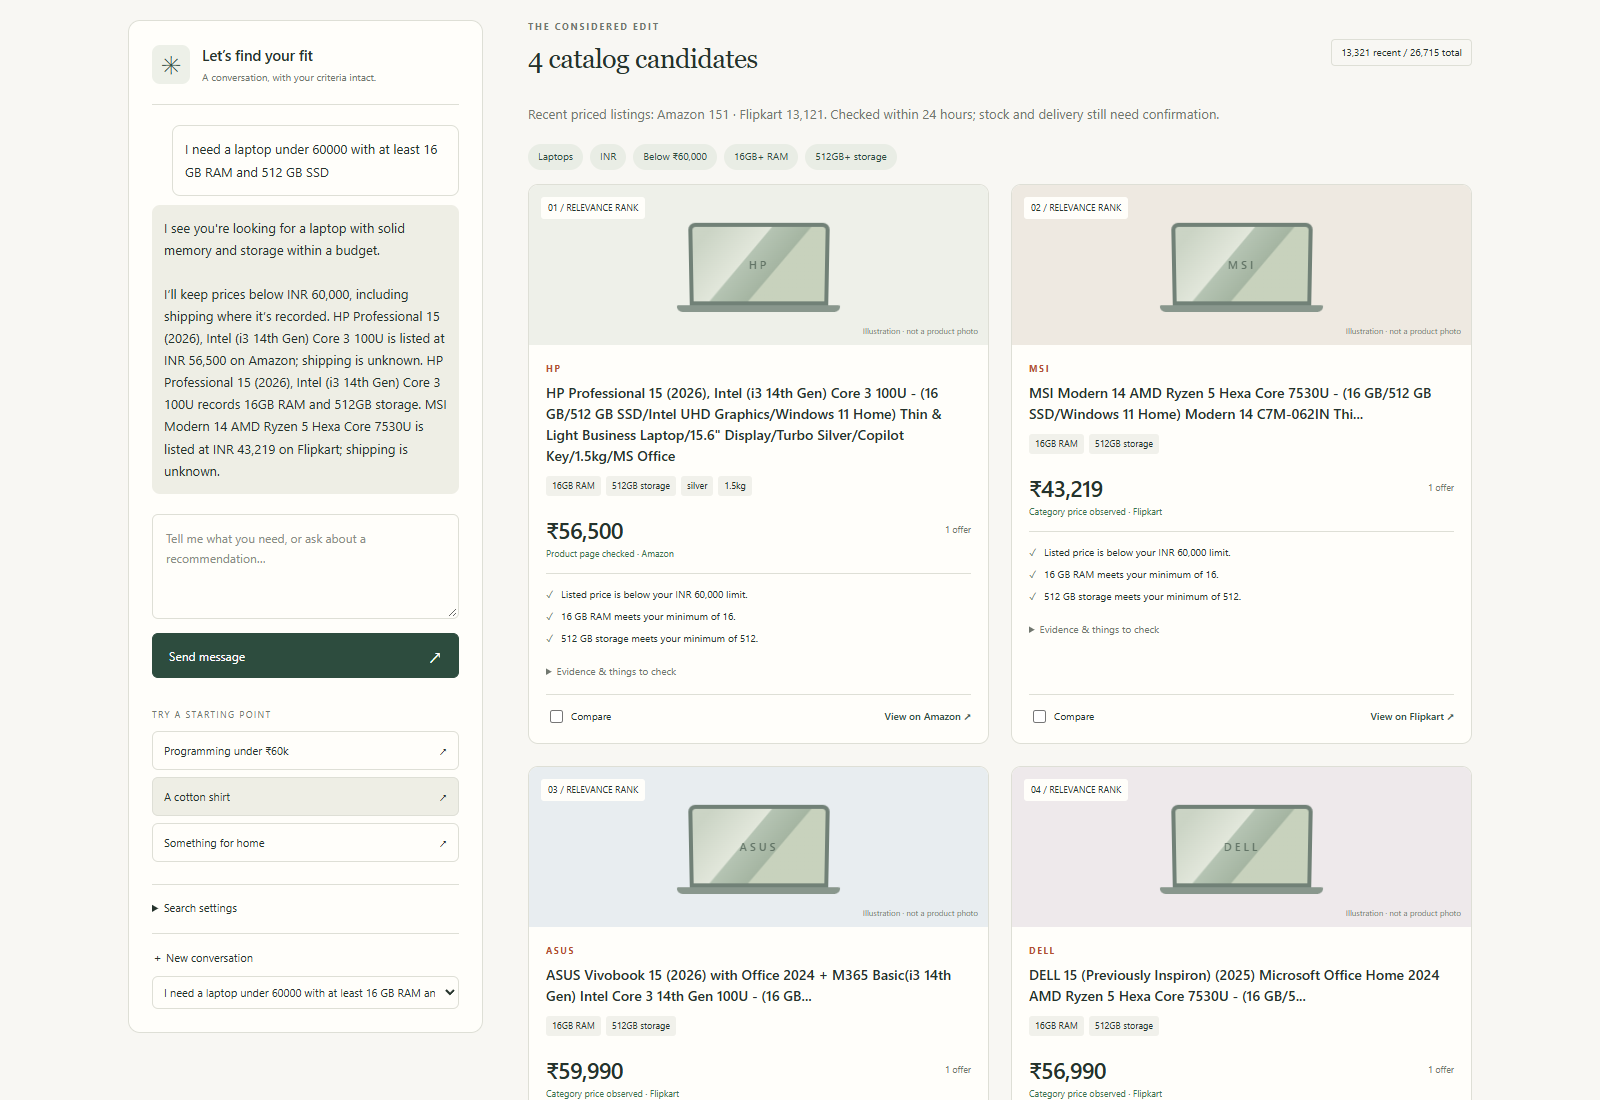
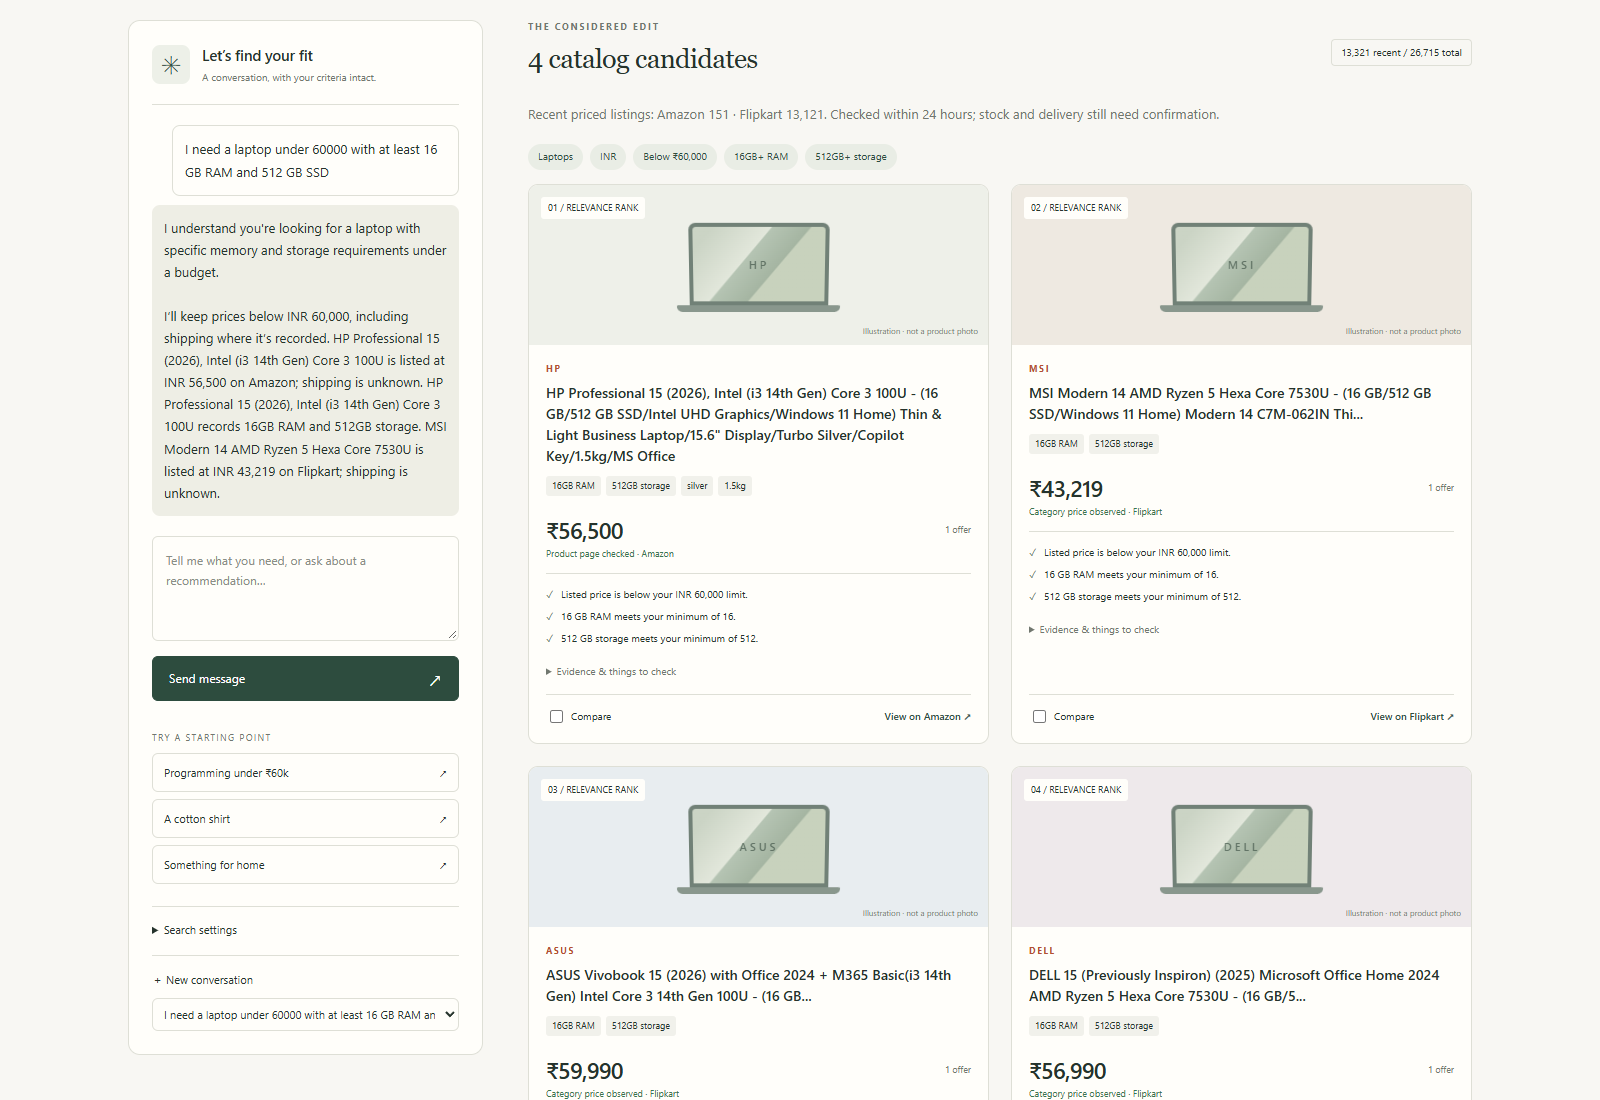
Show search-to-retailer examples and update project branding

Changed region(s): [[0.0938, 0.1855, 0.3125, 0.9273], [0.25, 0.7418, 0.2812, 0.7727], [0.25, 0.68, 0.2812, 0.7109]]

diff --git a/docs/SHOWCASE.md b/docs/SHOWCASE.md
@@ -1,6 +1,6 @@
 # Search examples and screenshots
 
-These are actual browser captures from the populated development app on **31 October 2026**, using local Qwen and hybrid retrieval. Product cards and replies were not mocked or rewritten for the images. Screenshots show the visible portion of each result list; open an image to inspect the text at full resolution.
+These are actual browser captures from the populated development app on **31 October 2026**, using local Qwen and hybrid retrieval. Each example pairs the search results with the retailer page opened by clicking **View on Amazon/Flipkart** on the first result. Product cards, replies and retailer pages were not mocked or rewritten for the images. Open an image to inspect the text at full resolution.
 
 The capture checks verify both the saved requirements and returned product fields. This demonstrates the recorded behavior of these examples, not universal language understanding or independently tested product quality. Prices and availability can change. The interface uses clearly labeled illustrations/category placeholders rather than product photographs.
 
@@ -14,6 +14,10 @@ The search preserves `alarm clock`, `shape: round` and `display: digital`. The c
 
 ![Round digital alarm clock search with preserved shape and display requirements](screenshots/round-digital-alarm-clock.png)
 
+**Top result after clicking through:** [Zollyss round digital alarm clock on Amazon](https://www.amazon.in/dp/B0GJSWLRJ4). The retailer page displays the actual product photograph, title and ₹699 price at capture time.
+
+![Amazon product page opened from the first round digital alarm clock result](screenshots/round-digital-alarm-clock-product.png)
+
 ## 2. An OLED television
 
 **Request:** “I want a oled TV”
@@ -21,6 +25,10 @@ The search preserves `alarm clock`, `shape: round` and `display: digital`. The c
 The request becomes a television search with a recorded OLED display requirement. The captured run returned six Flipkart candidates. The extraction and matching fields agree, so OLED is checked as a specification rather than treated as an unsupported sentence. These remain retailer-recorded display claims, not independent panel verification.
 
 ![OLED television search showing the display requirement and matching catalog candidates](screenshots/oled-televisions.png)
+
+**Top result after clicking through:** [LIMEBERRY 125 cm (50 inch) television on Flipkart](https://www.flipkart.com/limeberry-125-cm-50-inch-oled-ultra-hd-4k-smart-android-tv/p/itm1a9381dece63e?pid=TVSGMWP2WVG2CBSZ). The page shows the retailer's OLED description and ₹36,386 listed price. It also shows a delivery restriction with no delivery location selected; the shortlist does not guarantee local delivery.
+
+![Flipkart product page opened from the first OLED television result](screenshots/oled-televisions-product.png)
 
 ## 3. A laptop within a budget and minimum specifications
 
@@ -30,13 +38,9 @@ The shortlist applies a strict price ceiling below ₹60,000, at least 16 GB RAM
 
 ![Laptop search with price, RAM and storage requirements and offers from both retailers](screenshots/laptop-budget-specifications.png)
 
-## 4. Men's cotton shirts
+**Top result after clicking through:** [HP Professional 15, 16 GB RAM / 512 GB SSD, on Amazon](https://www.amazon.in/dp/B0GHSN1N24). This is the same first-listed laptop shown in the search results above.
 
-**Request:** “A cotton shirt for men under 1500”
-
-This example combines a clothing subtype, material, audience and a strict price ceiling below ₹1,500. Only recorded cotton and men's-audience attributes can satisfy those requirements. A missing selected size or uncertain stock is not implied to be verified.
-
-![Men's cotton-shirt search with material, audience and budget criteria](screenshots/cotton-shirts.png)
+![Amazon product page opened from the first laptop result](screenshots/laptop-budget-specifications-product.png)
 
 ## Reproduce the captures
 
@@ -46,6 +50,6 @@ Follow [Setup](SETUP.md), populate and index a recent catalog, start the local a
 node scripts/capture_showcase.cjs
 ```
 
-The script needs Playwright and installed Chrome. An optional example ID, such as `cotton-shirts`, captures just that scenario. A future run can return different offers or fail if current inventory does not meet the requirements. It will not fabricate products to recreate these images.
+The script needs Playwright and installed Chrome. An optional example ID, such as `round-digital-alarm-clock`, captures just that scenario. It saves the search image, clicks the first result's retailer link and captures the opened product page. A future run can return different offers or fail if current inventory does not meet the requirements or a retailer page is unavailable. It will not fabricate products to recreate these images.
 
 The development catalog and saved chats are not included in this repository. The application source, collection tools and documented import format are provided so a new catalog can be built separately.

diff --git a/README.md b/README.md
@@ -1,4 +1,4 @@
-# Affiliate Shopping Platform
+# Agentic Affiliate Shopping Platform
 
 **Shortlist — a local AI shopping assistant for Amazon India and Flipkart.**
 
@@ -89,17 +89,47 @@ Measured on **31 October 2026** in the populated development workspace:
 
 These are dated observations, not a live inventory claim or a count of distinct physical products. Recent status expires after 24 hours. **The populated catalog is not bundled in the repository**; a fresh checkout starts empty and must collect or import documented observations. The screenshots show the populated development instance.
 
-## Why the repository is not named “Agentic”
+## Example searches and product pages
 
-This is a **model-assisted, stateful shopping workflow**. The model interprets intent and helps select the conversational path, while application code controls retrieval, validation and acquisition. It does not yet independently plan a sequence of tools, acquire missing evidence during a search, and iterate until a shopping goal is satisfied. The simpler repository name reflects that boundary without diminishing the LangChain and LangGraph work already implemented.
+Captured on **31 October 2026** from the running application. Each search is followed by the retailer page opened from its **top result**. These are real browser captures; prices and availability can change. See the [full showcase](docs/SHOWCASE.md) for the recorded criteria and details.
+
+### Round digital alarm clock
+
+**Request:** “I want a digital alarm clock that is round in shape”
+
+![Round digital alarm clock search results](docs/screenshots/round-digital-alarm-clock.png)
+
+**Top result opened on Amazon:** [Zollyss round digital alarm clock](https://www.amazon.in/dp/B0GJSWLRJ4).
+
+![Top round digital alarm clock result on Amazon](docs/screenshots/round-digital-alarm-clock-product.png)
+
+### OLED television
+
+**Request:** “I want a oled TV”
+
+![OLED television search results](docs/screenshots/oled-televisions.png)
+
+**Top result opened on Flipkart:** [LIMEBERRY 50-inch television](https://www.flipkart.com/limeberry-125-cm-50-inch-oled-ultra-hd-4k-smart-android-tv/p/itm1a9381dece63e?pid=TVSGMWP2WVG2CBSZ). OLED is the retailer's recorded claim. The page shows a delivery restriction with no location selected.
+
+![Top OLED television result on Flipkart](docs/screenshots/oled-televisions-product.png)
+
+### Laptop below ₹60,000 with minimum specifications
+
+**Request:** “I need a laptop under 60000 with at least 16 GB RAM and 512 GB SSD”
+
+![Laptop results filtered by budget, RAM and storage](docs/screenshots/laptop-budget-specifications.png)
+
+**Top result opened on Amazon:** [HP Professional 15 with 16 GB RAM and 512 GB SSD](https://www.amazon.in/dp/B0GHSN1N24).
+
+![Top laptop result on Amazon](docs/screenshots/laptop-budget-specifications-product.png)
 
 ## Run locally
 
 The tested local-model runtime uses Windows and an NVIDIA GPU exposed through llama.cpp's Vulkan backend. Model weights and a compatible runtime are installed separately. See [Setup](docs/SETUP.md) for the full configuration, collection and indexing steps.
 
 ```powershell
-git clone https://github.com/adiltemp908-cyber/Affiliate_Shopping_Platform.git
-cd Affiliate_Shopping_Platform
+git clone https://github.com/adiltemp908-cyber/Agentic_Affiliate_Shopping_Platform.git
+cd Agentic_Affiliate_Shopping_Platform
 python -m venv .venv
 .\.venv\Scripts\Activate.ps1
 python -m pip install -e ".[dev]"

diff --git a/docs/SETUP.md b/docs/SETUP.md
@@ -100,7 +100,7 @@ npm install --no-save --package-lock=false playwright
 node scripts/capture_showcase.cjs
 ```
 
-The capture script requires current matching data, validates the displayed constraints, saves PNGs in `docs/screenshots/`, and writes its diagnostic summary to ignored `reports/`. A changed catalog may yield different counts or no matches; it does not manufacture screenshot results.
+The capture script requires current matching data, validates the displayed constraints, and captures both the search and the retailer page opened from its first result. It saves PNGs in `docs/screenshots/` and writes its diagnostic summary to ignored `reports/`. A changed catalog may yield different counts or no matches; it does not manufacture screenshot results. Retailer pages require internet access. Detected access/error pages are saved only as diagnostics in `reports/`, and the capture run fails rather than publishing them as product screenshots.
 
 ## Troubleshooting
 
